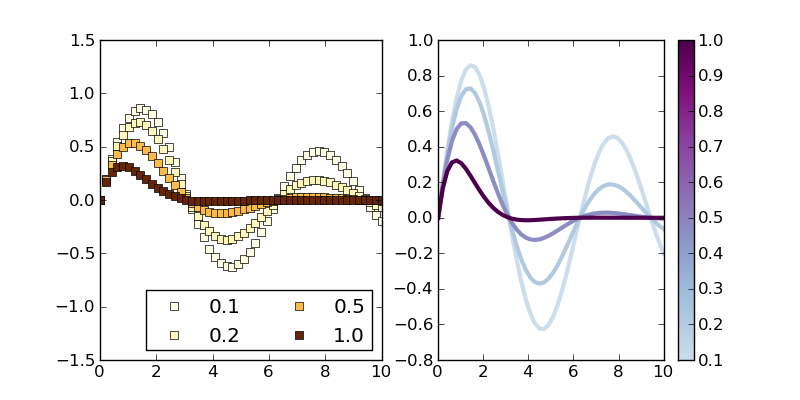
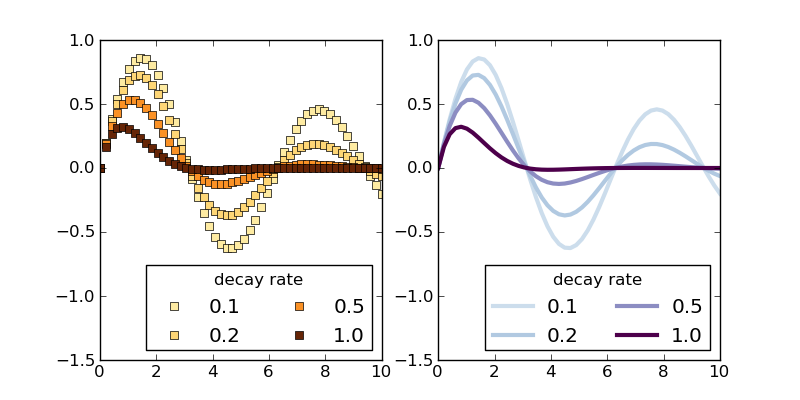
DOC: Simplify example plot.

diff --git a/doc/examples/plot_color_mapper.py b/doc/examples/plot_color_mapper.py
@@ -17,10 +17,9 @@ from mpltools import color
 
 pvalues = np.logspace(-1, 0, 4)
 parameter_range = (pvalues[0], pvalues[-1])
-cstart = 0.2
 # Pass parameter range so that color mapper knows how to normalize the data.
 map_color1 = color.color_mapper(parameter_range)
-map_color2 = color.color_mapper(parameter_range, cmap='BuPu', start=cstart)
+map_color2 = color.color_mapper(parameter_range, cmap='BuPu', start=0.2)
 
 figsize = mpltools.figsize(aspect_ratio=2)
 fig, (ax1, ax2) = plt.subplots(ncols=2, figsize=figsize)
@@ -30,15 +29,10 @@ for pval in pvalues:
     ax1.plot(x, y, 's', color=map_color1(pval))
     ax2.plot(x, y, lw=3, color=map_color2(pval))
 
-ax1.legend(['%0.1f' % v for v in pvalues], loc='lower right', ncol=2)
-ax1.set_ylim(-1.5, 1.5)
-
-# Hack to get correctly-scaled colorbar
-proxy_mappable = plt.cm.ScalarMappable(cmap='BuPu')
-map_start = parameter_range[1] - np.diff(parameter_range) / (1. - cstart)
-proxy_mappable.set_array(parameter_range)
-cbar = fig.colorbar(proxy_mappable, ax=ax2)
-cbar.set_clim((map_start, parameter_range[1]))
+for ax in (ax1, ax2):
+    leg = ax.legend(['%0.1f' % v for v in pvalues], loc='lower right', ncol=2)
+    leg.set_title('decay rate')
+    ax.set_ylim(-1.5, 1)
 
 plt.show()
 

diff --git a/doc/source/auto_examples/plot_color_mapper.py b/doc/source/auto_examples/plot_color_mapper.py
@@ -17,10 +17,9 @@ from mpltools import color
 
 pvalues = np.logspace(-1, 0, 4)
 parameter_range = (pvalues[0], pvalues[-1])
-cstart = 0.2
 # Pass parameter range so that color mapper knows how to normalize the data.
 map_color1 = color.color_mapper(parameter_range)
-map_color2 = color.color_mapper(parameter_range, cmap='BuPu', start=cstart)
+map_color2 = color.color_mapper(parameter_range, cmap='BuPu', start=0.2)
 
 figsize = mpltools.figsize(aspect_ratio=2)
 fig, (ax1, ax2) = plt.subplots(ncols=2, figsize=figsize)
@@ -30,15 +29,10 @@ for pval in pvalues:
     ax1.plot(x, y, 's', color=map_color1(pval))
     ax2.plot(x, y, lw=3, color=map_color2(pval))
 
-ax1.legend(['%0.1f' % v for v in pvalues], loc='lower right', ncol=2)
-ax1.set_ylim(-1.5, 1.5)
-
-# Hack to get correctly-scaled colorbar
-proxy_mappable = plt.cm.ScalarMappable(cmap='BuPu')
-map_start = parameter_range[1] - np.diff(parameter_range) / (1. - cstart)
-proxy_mappable.set_array(parameter_range)
-cbar = fig.colorbar(proxy_mappable, ax=ax2)
-cbar.set_clim((map_start, parameter_range[1]))
+for ax in (ax1, ax2):
+    leg = ax.legend(['%0.1f' % v for v in pvalues], loc='lower right', ncol=2)
+    leg.set_title('decay rate')
+    ax.set_ylim(-1.5, 1)
 
 plt.show()
 
